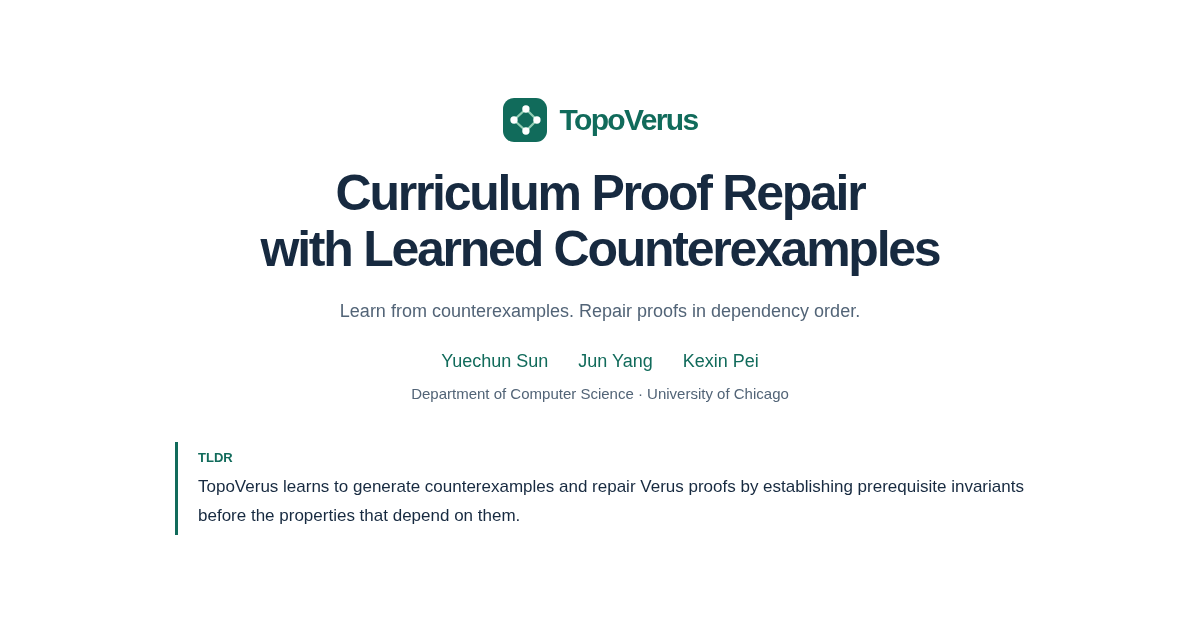
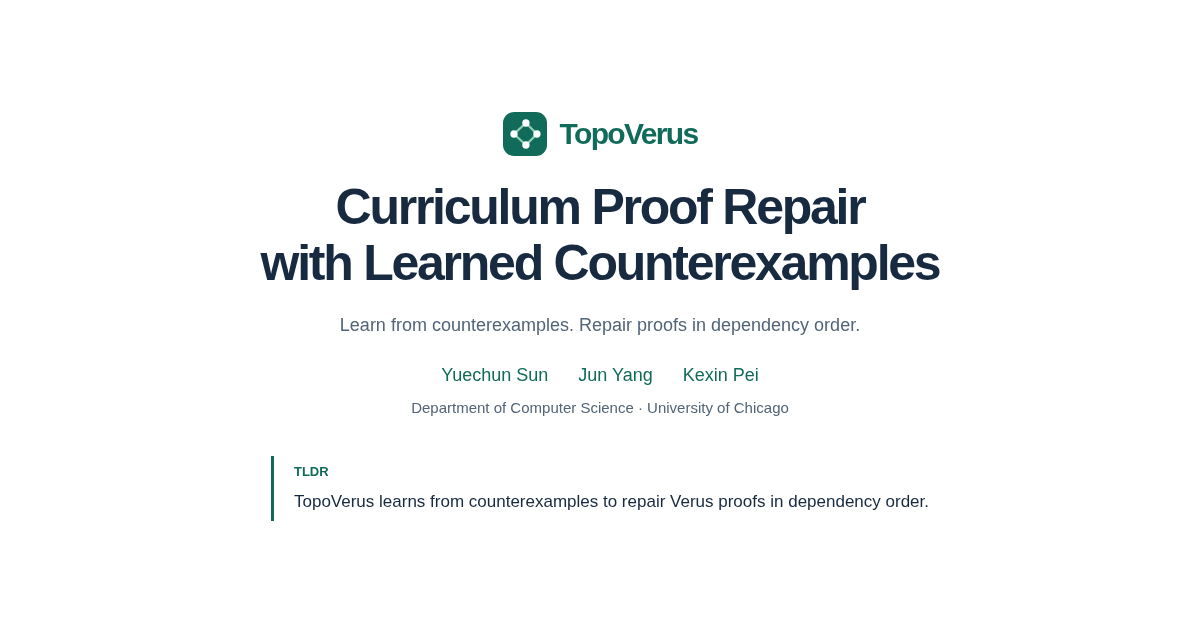
Explain invariants and simplify the proof repair story

Changed region(s): [[0.2158, 0.1508, 0.8017, 0.4524], [0.2775, 0.4825, 0.7092, 0.6635], [0.1542, 0.7238, 0.8633, 0.8444]]

diff --git a/index.html b/index.html
@@ -29,7 +29,7 @@
 <a class="resource" data-resource="code" aria-disabled="true"><span aria-hidden="true">&lt;/&gt;</span> GitHub <small>Coming soon</small></a>
 <a class="resource" data-resource="model" aria-disabled="true"><span aria-hidden="true">◈</span> Hugging Face <small>Coming soon</small></a>
 </div>
-<p class="tldr"><strong>TLDR</strong> TopoVerus learns to generate counterexamples and repair Verus proofs by establishing prerequisite invariants before the properties that depend on them.</p>
+<p class="tldr"><strong>TLDR</strong> TopoVerus learns from counterexamples to repair Verus proofs in dependency order.</p>
 <div class="hero-diagram" aria-label="Repair process: failed proof and verifier error, structured counterexample, repair rationale, proof repair, and verifier with safety check.">
 <div class="flow-node"><span class="flow-symbol error" aria-hidden="true">!</span><strong>Failed proof</strong><span>+ verifier error</span></div><span class="flow-arrow" aria-hidden="true">→</span>
 <div class="flow-node"><span class="flow-symbol" aria-hidden="true">σ</span><strong>Counterexample</strong><span>State · trace · violation</span></div><span class="flow-arrow" aria-hidden="true">→</span>
@@ -38,15 +38,15 @@
 <div class="flow-caption">Trained together with a topological graph reward</div>
 </div>
 </section>
-<section class="overview section wrap" id="overview"><div class="section-heading"><h2>Learn to explain a failure.<br>Then repair the proof.</h2><p>Verus checks correctness. Lynette checks that code and specifications stay unchanged.</p></div>
+<section class="overview section wrap" id="overview"><div class="section-heading"><h2>Repair proofs without changing the program.</h2><p>Verus checks the proof; Lynette protects code and specifications.</p></div>
 <div class="findings"><div><strong>61.6<span>%</span></strong><span>Weighted Safe Pass@1</span></div><div><strong>72.2<span>%</span></strong><span>Weighted Safe Pass@3</span></div><div><strong>471</strong><span>Problems across 7 benchmarks</span></div><div><strong>32B</strong><span>QwQ repair model</span></div></div>
-<p class="note">Manuscript results across 471 problems, with up to 10 repair iterations per chain.</p></section>
-<section class="method-band" id="method"><div class="section wrap"><div class="section-heading"><h2>Good diagnostics need<br>the right proof context.</h2><p>Each node is a loop invariant, a property that must hold throughout the loop.</p></div>
-<div class="explorer"><div class="step-list" role="group" aria-label="Explore invariant dependencies"><button class="step active" data-step="0" aria-pressed="true"><span>1</span><div><strong>Establish the length bound</strong><p>Constrain the size of the input array.</p></div></button><button class="step" data-step="1" aria-pressed="false"><span>2</span><div><strong>Establish the index bounds</strong><p>Give low and high a valid range.</p></div></button><button class="step" data-step="2" aria-pressed="false"><span>3</span><div><strong>Reason about the partitions</strong><p>Diagnose semantic boundary errors.</p></div></button></div>
-<div class="graph-panel"><svg class="dependency-graph" viewBox="0 0 570 270" role="img" aria-labelledby="graph-title graph-desc"><title id="graph-title">Invariant dependency graph</title><desc id="graph-desc">The length bound I1 supports the mutually dependent bounds I2 and I3, which support the partition invariants I4 and I5. Select a stage to highlight its prerequisites.</desc><defs><marker id="arrow" viewBox="0 0 10 10" refX="9" refY="5" markerWidth="6" markerHeight="6" orient="auto-start-reverse"><path d="M 0 0 L 10 5 L 0 10 z" fill="currentColor"/></marker></defs><g class="edges" fill="none" stroke-width="2" marker-end="url(#arrow)"><path d="M125 135 H179 Q194 135 194 79 H220"/><path d="M125 135 H179 Q194 135 194 191 H220"/><path d="M318 79 H365 Q380 79 380 79 H414"/><path d="M318 191 H365 Q380 191 380 191 H414"/></g><rect class="scc" x="205" y="39" width="129" height="192" rx="18"/><text class="scc-label" x="270" y="255" text-anchor="middle">Mutually dependent bounds</text><g class="invariant reached" data-level="0"><rect x="25" y="105" width="100" height="60" rx="12"/><text x="75" y="132" text-anchor="middle">I₁<tspan class="node-label" x="75" dy="20">Array length</tspan></text></g><g class="invariant" data-level="1"><rect x="220" y="49" width="98" height="60" rx="12"/><text x="269" y="76" text-anchor="middle">I₂<tspan class="node-label" x="269" dy="20">Lower bound</tspan></text><rect x="220" y="161" width="98" height="60" rx="12"/><text x="269" y="188" text-anchor="middle">I₃<tspan class="node-label" x="269" dy="20">Upper bound</tspan></text></g><g class="invariant" data-level="2"><rect x="414" y="49" width="100" height="60" rx="12"/><text x="464" y="76" text-anchor="middle">I₄<tspan class="node-label" x="464" dy="20">Left partition</tspan></text><rect x="414" y="161" width="100" height="60" rx="12"/><text x="464" y="188" text-anchor="middle">I₅<tspan class="node-label" x="464" dy="20">Right partition</tspan></text></g></svg><dl class="invariant-key"><div><dt>I₁</dt><dd>Array length</dd></div><div><dt>I₂</dt><dd>Lower bound</dd></div><div><dt>I₃</dt><dd>Upper bound</dd></div><div><dt>I₄</dt><dd>Left partition</dd></div><div><dt>I₅</dt><dd>Right partition</dd></div></dl><div class="stage-detail" aria-live="polite"><code id="stage-code">I₁: 1 ≤ nums.len() ≤ 10000</code><p id="stage-description">The array length constrains the valid index ranges.</p></div><p class="note">Binary search example. Arrows show prerequisites; the dashed box groups mutually dependent bounds.</p></div></div>
-<div class="method-notes"><article><h3>Learn structured diagnostics</h3><p>Generate a concrete state, trace, and violated obligation before proposing a repair.</p></article><article><h3>Reward dependency order</h3><p>Reward invariant coverage and placing prerequisites before dependent properties.</p></article><article><h3>Keep the program intact</h3><p>Reject repairs that alter executable code or user specifications.</p></article></div></div></section>
-<section class="section wrap" id="example"><div class="section-heading"><h2>From a plausible story<br>to an actionable diagnosis.</h2><p>Establish the bounds first, then locate the partition error.</p></div><figure class="wide-figure"><a href="assets/diagnostics.pdf" target="_blank" rel="noopener" aria-label="Open the diagnostic comparison as a full size PDF"><img src="assets/diagnostics.webp" width="3088" height="1257" loading="lazy" alt="Original manuscript figure comparing diagnostics without prerequisite context against diagnostics with prerequisite context."></a><figcaption>The diagnostic pinpoints one boundary repair: <code>high &lt;= i</code> to <code>high &lt; i</code>. <a href="assets/diagnostics.pdf">View original figure (PDF)</a></figcaption></figure></section>
-<section class="results-band" id="results"><div class="section wrap"><div class="section-heading"><h2>Evaluated on seven<br>Verus benchmark suites.</h2><p>A repair counts only when verification succeeds and code and specifications are preserved.</p></div><div class="result-topline"><div><strong>+5.7 / +6.3 points</strong><p>Weighted Safe Pass@1 / @3 gain over Sonnet 4.5.</p></div><div class="metric-toggle" role="group" aria-label="Result metric"><button class="active" data-metric="one" aria-pressed="true">Safe Pass@1</button><button data-metric="three" aria-pressed="false">Safe Pass@3</button></div></div>
+<p class="note">Up to 10 repair iterations per chain.</p></section>
+<section class="method-band" id="method"><div class="section wrap"><div class="section-heading"><h2>Prove the bounds before the partitions.</h2><p>I₁ to I₅ are loop invariants: facts preserved by every iteration of binary search.</p></div>
+<div class="explorer"><div class="step-list" role="group" aria-label="Explore invariant dependencies"><button class="step active" data-step="0" aria-pressed="true"><span>1</span><div><strong>I₁: Constrain the array length</strong></div></button><button class="step" data-step="1" aria-pressed="false"><span>2</span><div><strong>I₂, I₃: Bound the search indices</strong></div></button><button class="step" data-step="2" aria-pressed="false"><span>3</span><div><strong>I₄, I₅: Establish the partitions</strong></div></button></div>
+<div class="graph-panel"><svg class="dependency-graph" viewBox="0 0 570 270" role="img" aria-labelledby="graph-title graph-desc"><title id="graph-title">Invariant dependency graph</title><desc id="graph-desc">The length bound I1 supports the mutually dependent bounds I2 and I3, which support the partition invariants I4 and I5. Select a stage to highlight its prerequisites.</desc><defs><marker id="arrow" viewBox="0 0 10 10" refX="9" refY="5" markerWidth="6" markerHeight="6" orient="auto-start-reverse"><path d="M 0 0 L 10 5 L 0 10 z" fill="currentColor"/></marker></defs><g class="edges" fill="none" stroke-width="2" marker-end="url(#arrow)"><path d="M125 135 H179 Q194 135 194 79 H220"/><path d="M125 135 H179 Q194 135 194 191 H220"/><path d="M318 79 H365 Q380 79 380 79 H414"/><path d="M318 191 H365 Q380 191 380 191 H414"/></g><rect class="scc" x="205" y="39" width="129" height="192" rx="18"/><text class="scc-label" x="270" y="255" text-anchor="middle">Mutually dependent bounds</text><g class="invariant reached" data-level="0"><rect x="25" y="105" width="100" height="60" rx="12"/><text x="75" y="132" text-anchor="middle">I₁<tspan class="node-label" x="75" dy="20">Array length</tspan></text></g><g class="invariant" data-level="1"><rect x="220" y="49" width="98" height="60" rx="12"/><text x="269" y="76" text-anchor="middle">I₂<tspan class="node-label" x="269" dy="20">Lower bound</tspan></text><rect x="220" y="161" width="98" height="60" rx="12"/><text x="269" y="188" text-anchor="middle">I₃<tspan class="node-label" x="269" dy="20">Upper bound</tspan></text></g><g class="invariant" data-level="2"><rect x="414" y="49" width="100" height="60" rx="12"/><text x="464" y="76" text-anchor="middle">I₄<tspan class="node-label" x="464" dy="20">Left partition</tspan></text><rect x="414" y="161" width="100" height="60" rx="12"/><text x="464" y="188" text-anchor="middle">I₅<tspan class="node-label" x="464" dy="20">Right partition</tspan></text></g></svg><dl class="invariant-key"><div><dt>I₁ · Array length</dt><dd><code>1 ≤ len ≤ 10000</code></dd></div><div><dt>I₂ · Lower bound</dt><dd><code>0 ≤ low ≤ len</code></dd></div><div><dt>I₃ · Upper bound</dt><dd><code>−1 ≤ high ≤ len − 1</code></dd></div><div><dt>I₄ · Left partition</dt><dd>Values before <code>low</code> are below the target.</dd></div><div><dt>I₅ · Right partition</dt><dd>Values after <code>high</code> are above the target.</dd></div></dl><div class="stage-detail" aria-live="polite"><code id="stage-code">I₁: 1 ≤ nums.len() ≤ 10000</code><p id="stage-description">The array length constrains the valid index ranges.</p></div><p class="note">Arrows show prerequisites; the dashed box groups mutually dependent bounds.</p></div></div>
+</div></section>
+<section class="section wrap" id="example"><div class="section-heading"><h2>One counterexample exposes the boundary error.</h2><p>Include high by mistake, and the target itself breaks the right partition invariant.</p></div><figure class="boundary-example"><figcaption>Illustrative binary search state: target = 5, low = high = 2</figcaption><div class="array-strip" aria-label="Array values 1, 3, 5, 7, 9 at indices 0 through 4. Low and high both point to index 2."><div class="array-cell left"><small>index 0</small><strong>1</strong></div><div class="array-cell left"><small>index 1</small><strong>3</strong></div><div class="array-cell target"><small>index 2</small><strong>5</strong></div><div class="array-cell right"><small>index 3</small><strong>7</strong></div><div class="array-cell right"><small>index 4</small><strong>9</strong></div><div class="partition-label left-label">I₄: below target</div><div class="partition-label pointer">↑<br>low = high</div><div class="partition-label right-label">I₅: above target</div></div><div class="boundary-comparison"><div class="boundary-wrong"><strong>Incorrect: high ≤ i</strong><p>Includes index 2, requiring <code>5 &gt; 5</code> ✕</p></div><div class="boundary-correct"><strong>Repaired: high &lt; i</strong><p>Checks indices 3 and 4: <code>7, 9 &gt; 5</code> ✓</p></div></div></figure><details class="benchmark-details"><summary>View the full diagnostic comparison</summary><figure class="wide-figure"><a href="assets/diagnostics.pdf" target="_blank" rel="noopener" aria-label="Open the diagnostic comparison as a full size PDF"><img src="assets/diagnostics.webp" width="3088" height="1257" loading="lazy" alt="Original manuscript figure comparing diagnostics without prerequisite context against diagnostics with prerequisite context."></a><figcaption>The diagnostic pinpoints one boundary repair: <code>high &lt;= i</code> to <code>high &lt; i</code>. <a href="assets/diagnostics.pdf">View original figure (PDF)</a></figcaption></figure></details></section>
+<section class="results-band" id="results"><div class="section wrap"><div class="section-heading"><h2>More verified repairs across seven benchmarks.</h2><p>Safe Pass counts verified repairs that preserve code and specifications.</p></div><div class="result-topline"><div><strong>+5.7 / +6.3 points</strong><p>Weighted Safe Pass@1 / @3 gain over Sonnet 4.5.</p></div><div class="metric-toggle" role="group" aria-label="Result metric"><button class="active" data-metric="one" aria-pressed="true">Safe Pass@1</button><button data-metric="three" aria-pressed="false">Safe Pass@3</button></div></div>
 <figure class="comparison-chart"><figcaption id="comparison-caption">Weighted Safe Pass@1 (%) across 471 problems</figcaption><div class="chart-row"><span>Sonnet 4.5</span><div class="bar-track"><div class="bar baseline" data-bar-one="55.9" data-bar-three="65.9" style="width:55.9%"></div></div><strong data-one="55.9" data-three="65.9">55.9</strong></div><div class="chart-row"><span>TopoVerus</span><div class="bar-track"><div class="bar" data-bar-one="61.6" data-bar-three="72.2" style="width:61.6%"></div></div><strong data-one="61.6" data-three="72.2">61.6</strong></div><div class="chart-scale" aria-hidden="true"><span>0%</span><span>50%</span><span>100%</span></div></figure>
 <details class="benchmark-details"><summary>View all seven benchmarks and nine approaches</summary>
 <div class="table-scroll" role="region" aria-label="Benchmark results, scroll horizontally on small screens" tabindex="0"><table><caption id="result-caption">Safe Pass@1 (%) · up to 10 repair iterations per chain</caption><thead><tr><th scope="col">Approach</th><th scope="col">VerusBench<small>26 problems</small></th><th scope="col">DafnyBench<small>17</small></th><th scope="col">HumanEval<small>15</small></th><th scope="col">LeetCode<small>5</small></th><th scope="col">VeriCogen<small>89</small></th><th scope="col">ObfsBench<small>266</small></th><th scope="col">VeruSAGE<small>53</small></th></tr></thead><tbody><tr class=""><th scope="row">Sonnet 4.5</th><td data-one="73.1" data-three="84.6">73.1</td><td data-one="70.6" data-three="76.5">70.6</td><td data-one="13.3" data-three="13.3">13.3</td><td data-one="40.0" data-three="40.0">40.0</td><td data-one="26.7" data-three="30.0">26.7</td><td data-one="62.0" data-three="75.2">62.0</td><td data-one="75.5" data-three="84.9">75.5</td></tr>
@@ -59,9 +59,9 @@
 <tr class=""><th scope="row">CTX Binary</th><td data-one="88.5" data-three="96.2">88.5</td><td data-one="94.1" data-three="100.0">94.1</td><td data-one="26.7" data-three="26.7">26.7</td><td data-one="20.0" data-three="40.0">20.0</td><td data-one="44.9" data-three="60.7">44.9</td><td data-one="58.6" data-three="75.9">58.6</td><td data-one="24.5" data-three="30.2">24.5</td></tr>
 <tr class="ours"><th scope="row">TopoVerus <small>CTX Dep</small></th><td data-one="88.5" data-three="88.5">88.5</td><td data-one="100.0" data-three="100.0">100.0</td><td data-one="20.0" data-three="33.3">20.0</td><td data-one="20.0" data-three="20.0">20.0</td><td data-one="49.4" data-three="65.2">49.4</td><td data-one="69.9" data-three="80.1">69.9</td><td data-one="30.2" data-three="43.4">30.2</td></tr>
 </tbody></table></div><p class="note">Source: manuscript Table 1. Safe Pass@3 counts success in any of three independent chains. <a href="assets/results.json">Download table data (JSON)</a></p></details><p class="result-caveat">Cloud models remain stronger on the VeruSAGE systems tasks.</p>
-<div class="scaling"><div><h3>More compute, stronger repairs.</h3><p>On a separate validation set of 63 problems, both more chains and more iterations improve repair success.</p></div><div class="scaling-plots"><img class="legend" src="assets/scaling-legend.webp" width="754" height="38" loading="lazy" alt="Plot legend: CoT Init, CTX Init, CTX Dep, Qwen3 Coder, Sonnet 4.5."><div class="plot-pair"><figure><a href="assets/sample-scaling.pdf"><img src="assets/sample-scaling.webp" width="641" height="424" loading="lazy" alt="Safe Pass at increasing numbers of independent chains, with CTX Dep reaching 79.4 percent at 32 chains."></a><figcaption><strong>79.4% Safe Pass@32</strong><br>32 independent repair chains</figcaption></figure><figure><a href="assets/iteration-scaling.pdf"><img src="assets/iteration-scaling.webp" width="641" height="413" loading="lazy" alt="Safe Pass@1 at increasing iteration budgets, with CTX Dep reaching 69.8 percent at 32 iterations."></a><figcaption><strong>69.8% Safe Pass@1</strong><br>32 iterations within one chain</figcaption></figure></div></div></div>
+<div class="scaling"><div><h3>More compute, stronger repairs.</h3><p>More chains and iterations help on a separate validation set of 63 problems.</p></div><div class="scaling-plots"><img class="legend" src="assets/scaling-legend.webp" width="754" height="38" loading="lazy" alt="Plot legend: CoT Init, CTX Init, CTX Dep, Qwen3 Coder, Sonnet 4.5."><div class="plot-pair"><figure><a href="assets/sample-scaling.pdf"><img src="assets/sample-scaling.webp" width="641" height="424" loading="lazy" alt="Safe Pass at increasing numbers of independent chains, with CTX Dep reaching 79.4 percent at 32 chains."></a><figcaption><strong>79.4% Safe Pass@32</strong><br>32 independent repair chains</figcaption></figure><figure><a href="assets/iteration-scaling.pdf"><img src="assets/iteration-scaling.webp" width="641" height="413" loading="lazy" alt="Safe Pass@1 at increasing iteration budgets, with CTX Dep reaching 69.8 percent at 32 iterations."></a><figcaption><strong>69.8% Safe Pass@1</strong><br>32 iterations within one chain</figcaption></figure></div></div></div>
 </div></section>
-<section class="section wrap transfer"><div class="section-heading"><h2>Diagnostics that help<br>other repair models.</h2><p>Hold the failed proof fixed. Change only the diagnostic source.</p></div><p class="transfer-intro">On 118 hard failed states, learned diagnostics help three independent models repair more proofs.</p>
+<section class="section wrap transfer"><div class="section-heading"><h2>Diagnostics that help<br>other repair models.</h2><p>Change only the diagnostics on 118 fixed failures to help other models repair more proofs.</p></div>
 <figure class="transfer-chart"><figcaption>Repair success (%) with CoT Init diagnostics versus TopoVerus diagnostics</figcaption><div class="chart-key"><span><i class="baseline"></i>CoT Init</span><span><i></i>TopoVerus</span></div>
 <div class="transfer-group"><h3>DeepSeek V4</h3><div class="chart-row"><span>CoT Init</span><div class="bar-track"><div class="bar baseline" style="width:11.9%"></div></div><strong>11.9</strong></div><div class="chart-row"><span>TopoVerus</span><div class="bar-track"><div class="bar" style="width:19.5%"></div></div><strong>19.5</strong></div></div><div class="transfer-group"><h3>Sonnet 4.5</h3><div class="chart-row"><span>CoT Init</span><div class="bar-track"><div class="bar baseline" style="width:31.4%"></div></div><strong>31.4</strong></div><div class="chart-row"><span>TopoVerus</span><div class="bar-track"><div class="bar" style="width:39.0%"></div></div><strong>39.0</strong></div></div><div class="transfer-group"><h3>Qwen3 Coder</h3><div class="chart-row"><span>CoT Init</span><div class="bar-track"><div class="bar baseline" style="width:13.6%"></div></div><strong>13.6</strong></div><div class="chart-row"><span>TopoVerus</span><div class="bar-track"><div class="bar" style="width:15.3%"></div></div><strong>15.3</strong></div></div><div class="chart-scale" aria-hidden="true"><span>0%</span><span>50%</span><span>100%</span></div></figure><p class="note">Diagnostics provide repair guidance, not independently certified counterexamples.</p></section>
 <section class="resources-section" id="resources"><div class="section wrap"><div class="section-heading"><h2>Explore TopoVerus.</h2><p>Explore the code and model. The paper is coming soon.</p></div><div class="release-list"><div><h3>Paper / arXiv</h3><p>Curriculum Proof Repair with Learned Counterexamples</p><a data-resource="paper" aria-disabled="true">Coming soon</a></div><div><h3>GitHub</h3><p>Training, evaluation, and proof repair</p><a data-resource="code" aria-disabled="true">Coming soon</a></div><div><h3>Hugging Face</h3><p>Model and associated release artifacts</p><a data-resource="model" aria-disabled="true">Coming soon</a></div></div><div class="citation-heading"><h3>Citation</h3></div><p class="citation">Coming soon</p></div></section>

diff --git a/styles.css b/styles.css
@@ -75,9 +75,6 @@ h1{font-size:clamp(34px,4.7vw,58px);line-height:1.12;letter-spacing:-.045em}
 .stage-detail code{color:var(--green);font-size:14px}
 .stage-detail p{font-size:14px;color:var(--muted);margin-top:8px}
 .graph-panel>.note{margin-top:10px}
-.method-notes{display:grid;grid-template-columns:repeat(3,1fr);gap:35px}
-.method-notes h3{font-size:18px;margin-bottom:12px}
-.method-notes p{font-size:14px;color:var(--muted);margin:0}
 .wide-figure{margin:34px 0 0}
 .wide-figure img{width:100%;border:1px solid var(--line);border-radius:8px;padding:12px;background:white}
 figcaption{font-size:13px;color:var(--muted);margin-top:14px;line-height:1.7}
@@ -144,7 +141,6 @@ footer .brand{font-size:16px}
 .step{padding:12px;gap:8px}
 .step strong{font-size:12px}
 .step p{display:none}
-.method-notes{gap:22px}
 .result-topline{align-items:flex-start;flex-direction:column}
 .scaling{grid-template-columns:1fr}
 .transfer-layout{grid-template-columns:1fr;gap:20px}
@@ -180,8 +176,6 @@ h1{font-size:35px}
 .step strong{font-size:14px}
 .step p{display:block;font-size:12px}
 .graph-panel{padding:15px}
-.method-notes{grid-template-columns:1fr;gap:23px}
-.method-notes p{font-size:14px}
 .stage-detail code{font-size:12px}
 .wide-figure img{padding:3px;border-radius:3px}
 .plot-pair{grid-template-columns:1fr}
@@ -230,5 +224,23 @@ figure,table{break-inside:avoid}
 .transfer-group:last-of-type{border:0}
 @media(max-width:520px){.tldr{font-size:16px;padding-left:15px}.comparison-chart,.transfer-chart{padding:18px 14px}.chart-row{grid-template-columns:80px 1fr 33px;gap:8px;font-size:12px}.chart-scale{margin-left:88px;margin-right:41px}.bar-track{height:21px}.comparison-chart figcaption,.transfer-chart figcaption{font-size:13px}}
 
-.invariant-key{display:none}
-@media(max-width:520px){.invariant-key{display:grid;grid-template-columns:1fr 1fr;gap:10px;margin:8px 0 22px;font-size:13px}.invariant-key>div{display:flex;gap:8px}.invariant-key dt{font-weight:700;color:var(--green)}.invariant-key dd{margin:0;color:var(--muted)}.invariant .node-label{display:none}}
+/* Keep every invariant definition visible on desktop and mobile. */
+.invariant-key{display:grid;grid-template-columns:1fr 1fr;gap:14px 20px;margin:12px 0 24px;font-size:13px}
+.invariant-key>div{display:block}
+.invariant-key dt{font-weight:650;color:var(--green)}
+.invariant-key dd{margin:4px 0 0;color:var(--muted)}
+.invariant-key>div:first-child{grid-column:1/-1}
+.boundary-example{margin:30px 0;border:1px solid var(--line);border-radius:14px;padding:28px}
+.boundary-example figcaption{margin:0 0 24px;font-size:14px;color:var(--ink)}
+.array-strip{display:grid;grid-template-columns:repeat(5,1fr);gap:8px;max-width:700px;margin:auto}
+.array-cell{text-align:center;padding:16px 8px;border-radius:8px;border:1px solid var(--line)}
+.array-cell small{display:block;font-size:12px;color:var(--muted)}
+.array-cell strong{display:block;font-size:32px;font-weight:600}
+.array-cell.left{background:#edf3fb}.array-cell.right{background:var(--green-soft)}
+.array-cell.target{border:2px solid var(--ink);background:#fff}
+.partition-label{text-align:center;font-size:13px;color:var(--muted)}
+.left-label{grid-column:1/3}.right-label{grid-column:4/6}.pointer{grid-column:3;line-height:1.3;color:var(--ink)}
+.boundary-comparison{display:grid;grid-template-columns:1fr 1fr;gap:20px;margin-top:28px;font-size:14px}
+.boundary-comparison>div{padding:18px;border-radius:8px}.boundary-comparison p{margin:8px 0 0}
+.boundary-wrong{background:#fff3f1;color:#8a3934}.boundary-correct{background:var(--green-soft);color:var(--green)}
+@media(max-width:520px){.invariant-key{grid-template-columns:1fr;font-size:13px}.invariant .node-label{display:none}.boundary-example{padding:18px 12px}.array-strip{gap:5px}.array-cell{padding:10px 3px}.array-cell strong{font-size:26px}.array-cell small{font-size:10px}.partition-label{font-size:10px}.boundary-comparison{grid-template-columns:1fr;gap:10px}.boundary-comparison>div{padding:14px}}
